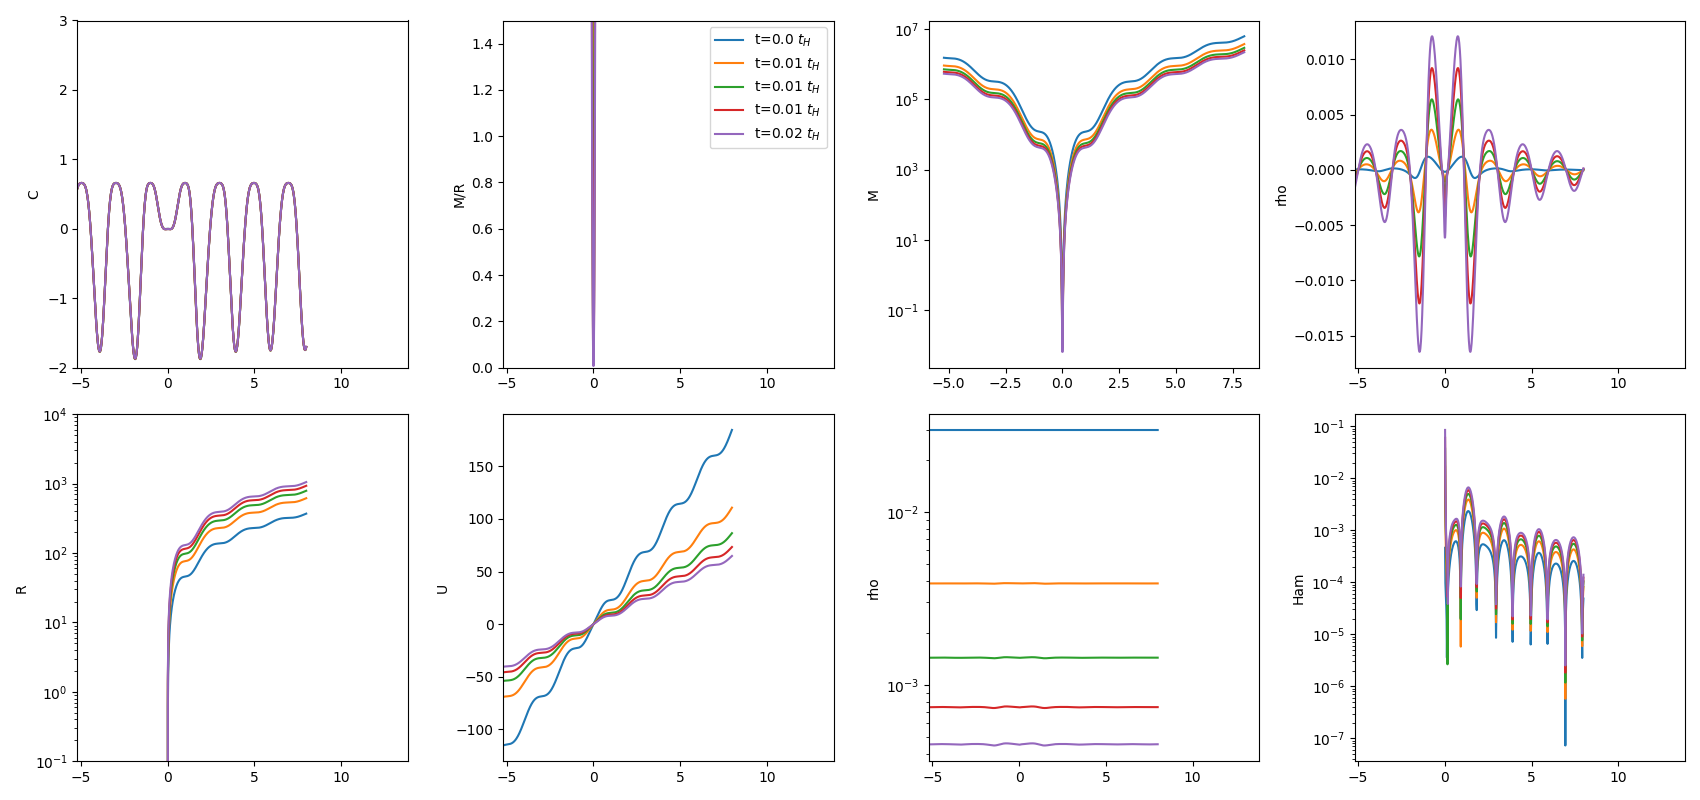
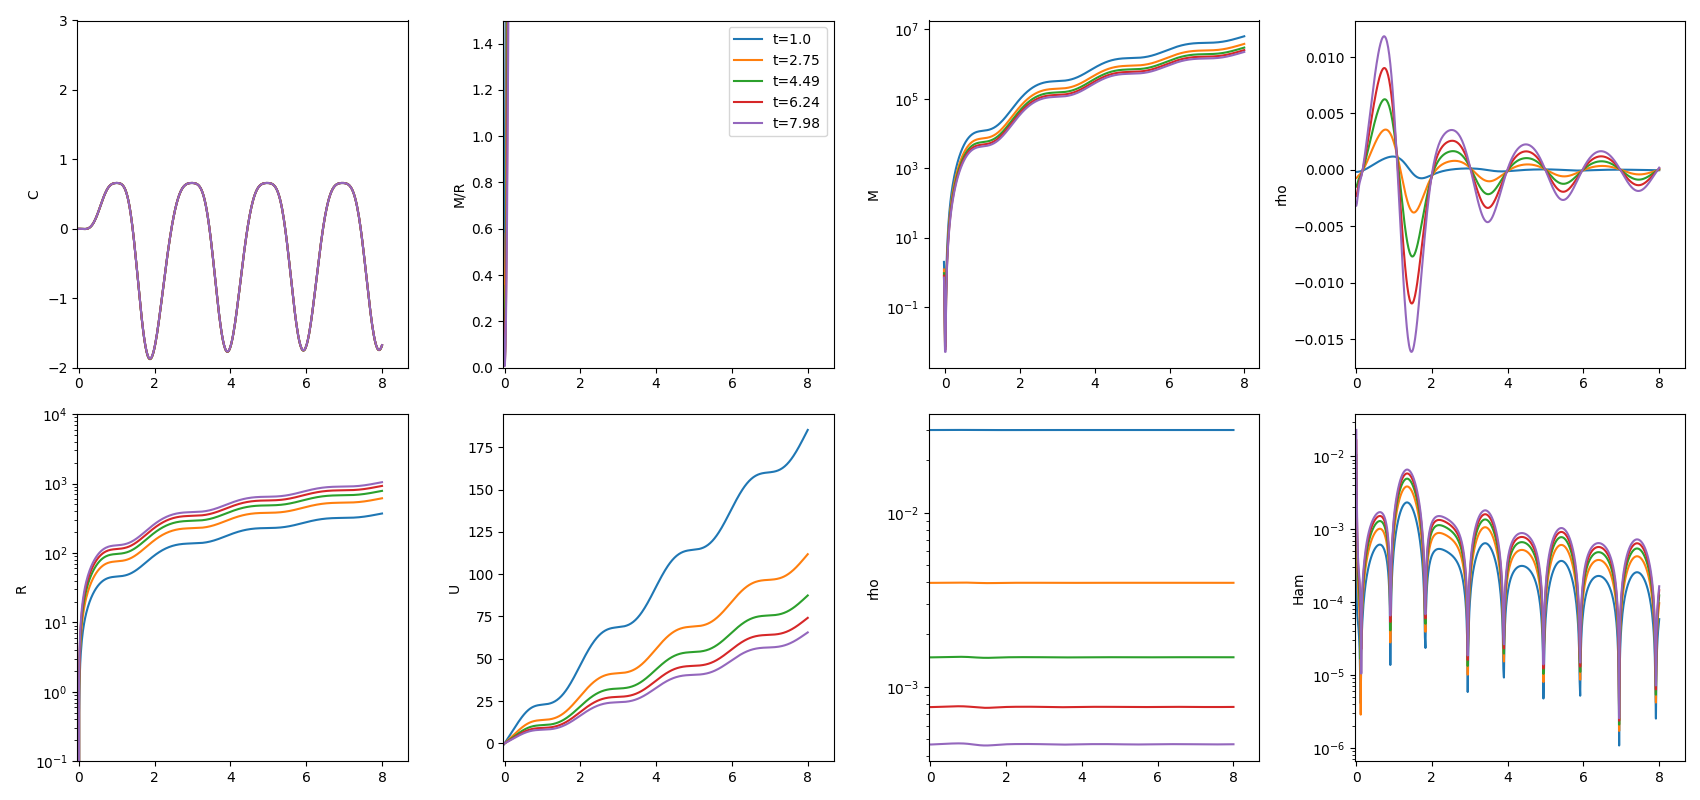
update params

diff --git a/engrenage_MSPBH/source/rhsevolution.py b/engrenage_MSPBH/source/rhsevolution.py
@@ -11,19 +11,14 @@ from source.fourthorderderivatives import *
 from source.logderivatives import *
 from source.tensoralgebra import *
 from source.misnersharp import *
-# from source.mymatter import *
-# from source.bssnrhs import *
 
 from source.initialdata import rho_bkg_ini, t_ini
 from source.initialdata import *  
-# function that returns the rhs for each of the field vars
-# see further details in https://github.com/GRChombo/engrenage/wiki/Useful-code-background
 
 
     
 ################################ Main RHS get function  
-    
-skip_idxs = []
+# skip_idxs = []
 
 def get_rhs(t_i, current_state, R_max, N_r, r_is_logarithmic, sigma, progress_bar, time_state) :     
 
@@ -56,21 +51,7 @@ def get_rhs(t_i, current_state, R_max, N_r, r_is_logarithmic, sigma, progress_ba
     M[-num_ghosts:] = 0
     R[-num_ghosts:] = 0
     
-    
-    
-    # if False:
-        # rho_bkg = get_rho_bkg(t_i/t_ini, rho_bkg_ini)
-        # # rho[-num_ghosts-1:] = rho_bkg
-        # rho[~(rho==rho)] = -1
-        # if np.sum(rho<0) > 0 : 
-            # argindx = np.where(rho<0)[0]
-            # for indx in argindx:
-                # if not indx in skip_idxs: 
-                        # skip_idxs.append(indx)
-                        # print("  WARNING rho become negative, set to min rho.", t_i, indx)                      
-    # argindx = np.where(rho<0)[0]
-    # rho[skip_idxs] = rho_bkg
-        
+           
     # t0 = time.time()
     # print("grid and var setup done in ", t0-start_time)
     
@@ -96,20 +77,6 @@ def get_rhs(t_i, current_state, R_max, N_r, r_is_logarithmic, sigma, progress_ba
 
 
 
-    #dMdr - 4*np.pi*rho*R**2 * dRdr                                                                ############    !!!!
-    if False:
-        # if len(skip_idxs)>0:
-            # rho[skip_idxs] =  np.abs(dMdr / (4*np.pi* R**2 * dRdr))[skip_idxs]
-        rho_bkg = get_rho_bkg(t_i/t_ini, rho_bkg_ini)
-        # rho[-num_ghosts-1:] = rho_bkg
-        mask = rho<rho_bkg/10
-        rho[mask] = np.abs(dMdr / (4*np.pi* R**2 * dRdr))[mask]
-        drhodr     = get_dfdx(rho, oneoverdx)
-
-
-
-
-
     # t2 = time.time()
     # print("derivs found in ", t2 - t1)
         
@@ -127,7 +94,6 @@ def get_rhs(t_i, current_state, R_max, N_r, r_is_logarithmic, sigma, progress_ba
     # note that we do the ghost cells separately below
     for ix in range(num_ghosts, N-num_ghosts) :
         
-        # if ix in skip_idxs: continue                                                         ############################# !!!!
         #t0A = time.time()
         
         # where am I?
@@ -163,20 +129,12 @@ def get_rhs(t_i, current_state, R_max, N_r, r_is_logarithmic, sigma, progress_ba
     ####################################################################################################
 
 
-    # # # B.C. like A. Escriva does ... 
-    # rhs_U[:num_ghosts+1] = 0
-    # rhs_M[:num_ghosts+1] = 0
-    # rhs_R[:num_ghosts+1] = 0
-    
+	# Boundary conditions at the end
     rhs_rho[-num_ghosts:] = 0
-    # rhs_rho[0:num_ghosts+1] = 0
-
 
 
     #package up the rhs values into a vector rhs (like current_state) for return - see uservariables.py
     pack_state(rhs, N_r, rhs_U, rhs_R , rhs_M, rhs_rho)
-
-
 
     #################################################################################################### 
             
@@ -204,11 +162,9 @@ def get_rhs(t_i, current_state, R_max, N_r, r_is_logarithmic, sigma, progress_ba
     # overwrite outer boundaries with extrapolation (order specified in uservariables.py)
     # fill_outer_boundary(current_state, dx, N, r_is_logarithmic)
     # fill_outer_boundary(rhs, dx, N, r_is_logarithmic)
-    
-    # rm = get_rm()
-    # epsilon = 0.01
-    # _rhs_fill_outer_boundary(current_state, dx, N, r_is_logarithmic, t_i, rm, omega, epsilon)
 
+
+	# Boundary Conditions at origin
     # overwrite inner cells using parity under r -> - r
     fill_inner_boundary(current_state, dx, N, r_is_logarithmic)
     fill_inner_boundary(rhs, dx, N, r_is_logarithmic)
@@ -249,208 +205,9 @@ def get_rhs(t_i, current_state, R_max, N_r, r_is_logarithmic, sigma, progress_ba
 
     
 
-def get_rhs_chev(t_i, current_state, R_max, N_r, r_is_logarithmic, sigma, progress_bar, time_state) :      ###CJ!!! remove eta  --> change to params
-
-    # Uncomment for timing and tracking progress
-    # start_time = time.time()
-    
-    # Set up grid values
-    dx, N, r, logarithmic_dr = setup_grid(R_max, N_r, r_is_logarithmic)
-    
-    # predefine some userful quantities
-    oneoverlogdr = 1.0 / logarithmic_dr
-    oneoverlogdr2 = oneoverlogdr * oneoverlogdr
-    oneoverdx  = 1.0 / dx
-    oneoverdxsquared = oneoverdx * oneoverdx
-    
-    # this is where the rhs will go
-    rhs = np.zeros_like(current_state)                                    ###CJ!!!
-    
-    ####################################################################################################
-    #unpackage the state vector for readability - these are the vectors of values across r values at time t_i
-    # see uservariables.py for naming conventions
-    
-    # Unpack variables from current_state - see uservariables.py
-    ### u, v , phi, hrr, htt, hpp, K, arr, att, app, lambdar, shiftr, br, lapse = unpack_state(current_state, N_r) 
-    U, R, M, rho = unpack_state(current_state, N_r) 
-    
-    
-    
-    rho_bkg = get_rho_bkg(t_i/t_ini, rho_bkg_ini)
-    rho[-num_ghosts-1:] = rho_bkg
-    if np.sum(rho<0) >0 : print("  WARNING rho become negative, set to min rho.")
-    rho[rho<0] = rho_bkg
-        
-    # t0 = time.time()
-    # print("grid and var setup done in ", t0-start_time)
-    
-       
-    ####################################################################################################
-
-    # get the various derivs that we need to evolve things
-    if(r_is_logarithmic) : #take logarithmic derivatives
-            
-        # # second derivatives
-        # d2Udx2     = get_logd2fdx2(U, oneoverlogdr2)
-        # d2Rdx2   = get_logd2fdx2(R, oneoverlogdr2)
-        # d2Mdx2   = get_logd2fdx2(M, oneoverlogdr2)
-        # d2rhodx2   = get_logd2fdx2(rho, oneoverlogdr2)
-        
-        # # first derivatives        
-        # dUdr       = get_logdfdx(U, oneoverlogdr)
-        # dRdr       = get_logdfdx(R, oneoverlogdr)
-        # dMdr       = get_logdfdx(M, oneoverlogdr)
-        # drhodr     = get_logdfdx(rho, oneoverlogdr)
-        raise()
-    
-    else :
-        
-        # # second derivatives
-        # d2Udr2     = get_d2fdx2(U, oneoverdxsquared)
-        # d2Mdr2   = get_d2fdx2(M, oneoverdxsquared)
-        # d2Rdr2     = get_d2fdx2(R, oneoverdxsquared)
-        # d2rhodxr2   = get_d2fdx2(rho, oneoverdxsquared)
-
-        # first derivatives
-        dUdr       = get_dfdx(U, oneoverdx)
-        dRdr       = get_dfdx(R, oneoverdx)
-        dMdr       = get_dfdx(M, oneoverdx)
-        drhodr     = get_dfdx(rho, oneoverdx)
-        
-        # B.C. like A. Escriva does ... 
-        drhodr[:num_ghosts+1] = drhodr[num_ghosts+2]
-        drhodr[-num_ghosts-1:] = drhodr[-num_ghosts-2]
-
- 
-
-    # t2 = time.time()
-    # print("derivs found in ", t2 - t1)
-        
-    ####################################################################################################
-    
-    # make containers for rhs values
-    rhs_U   = np.zeros_like(U)
-    rhs_R   = np.zeros_like(R)
-    rhs_M = np.zeros_like(M)
-    rhs_rho = np.zeros_like(rho)
-    
-    ####################################################################################################    
-    
-    # now iterate over the grid (vector) and calculate the rhs values
-    # note that we do the ghost cells separately below
-    for ix in range(num_ghosts, N-num_ghosts) :
-        
-        #t0A = time.time()
-        
-        # where am I?
-        r_here = r[ix]
-                
-                
-        # print("Assign vars done in ", t1A - t0A) 
-        # End of: Calculate some useful quantities, now start RHS
-        #########################################################
-
-        
-        # Get the auxiliary vars        
-        omega = get_omega()        
-        
-        rho_bkg = get_rho_bkg(t_i/t_ini, rho_bkg_ini)
-        
-        if rho[ix] <0 :  rho[ix] = rho_bkg
-        A = get_A(rho[ix], rho_bkg, omega)
-        Gamma = get_Gamma(U[ix], R[ix], M[ix])
-        
-        # Get the Misner-sharp rhs 
-        rhs_U[ix]     =  get_rhs_U(U[ix], M[ix], R[ix], rho[ix], dRdr[ix], drhodr[ix], A, Gamma, omega)
-        
-        rhs_R[ix]     =  get_rhs_R(U[ix], A)
-        
-        rhs_M[ix]     =  get_rhs_M(U[ix], R[ix], rho[ix], A, omega) 
-        
-        rhs_rho[ix]   =  get_rhs_rho(U[ix], R[ix], rho[ix], dUdr[ix], dRdr[ix], A, omega)
-                   
-    # end of rhs iteration over grid points   
-    # t3 = time.time()
-    # print("rhs iteration over grid done in ", t3 - t2)
-    
-    ####################################################################################################
-
-    # B.C. like A. Escriva does ... 
-    rhs_U[:num_ghosts+1] = 0
-    rhs_M[:num_ghosts+1] = 0
-    rhs_R[:num_ghosts+1] = 0
-
-
-
-    #package up the rhs values into a vector rhs (like current_state) for return - see uservariables.py
-    pack_state(rhs, N_r, rhs_U, rhs_R , rhs_M, rhs_rho)
-
-
-
-    #################################################################################################### 
-            
-    # finally add Kreiss Oliger dissipation which removed noise at frequency of grid resolution
-    # sigma = 10.0 # kreiss-oliger damping coefficient, max_step should be limited to 0.1 R_max/N_r    ###CJ change to params.sigma
-    
-    diss = np.zeros_like(current_state) 
-    for ivar in range(0, NUM_VARS) :
-        ivar_values = current_state[(ivar)*N:(ivar+1)*N]
-        ivar_diss = np.zeros_like(ivar_values)
-        if(r_is_logarithmic) :
-            ivar_diss = get_logdissipation(ivar_values, oneoverlogdr, sigma)
-        else : 
-            ivar_diss = get_dissipation(ivar_values, oneoverdx, sigma)
-        diss[(ivar)*N:(ivar+1)*N] = ivar_diss
-    rhs += diss
-    
-    # t4 = time.time()
-    # print("KO diss done in ", t4 - t3)    
-    
-    #################################################################################################### 
-    
-    # see gridfunctions for these, or https://github.com/KAClough/BabyGRChombo/wiki/Useful-code-background
-    
-    # overwrite outer boundaries with extrapolation (order specified in uservariables.py)
-    # fill_outer_boundary(current_state, dx, N, r_is_logarithmic)
-    fill_outer_boundary(rhs, dx, N, r_is_logarithmic)
-    
-    # rm = get_rm()
-    # epsilon = 0.01
-    # _rhs_fill_outer_boundary(current_state, dx, N, r_is_logarithmic, t_i, rm, omega, epsilon)
-
-    # overwrite inner cells using parity under r -> - r
-    fill_inner_boundary(current_state, dx, N, r_is_logarithmic)
-    # fill_inner_boundary(rhs, dx, N, r_is_logarithmic)
-    
-    # t5 = time.time()
-    # print("Fill boundaries done in ", t5 - t4) 
-                
-    #################################################################################################### 
-    
-    # Some code for checking timing and progress output
-    
-    # state is a list containing last updated time t:
-    # state = [last_t, dt for progress bar]
-    # its values can be carried between function calls throughout the ODE integration
-    last_t, deltat = time_state
-    
-    # call update(n) here where n = (t - last_t) / dt
-    n = int((t_i - last_t)/deltat)
-    progress_bar.update(n)
-    # we need this to take into account that n is a rounded number:
-    time_state[0] = last_t + deltat * n
-    
-    # t6 = time.time()
-    # print("Check timing and output ", t6 - t5) 
-    
-    # end_time = time.time()
-    # print("total rhs time at t= ", t_i, " is, ", end_time-start_time)
-        
-    ####################################################################################################
+def get_rhs_chev(t_i, current_state, R_max, N_r, r_is_logarithmic, sigma, progress_bar, time_state) :     
+	
+	# TODO
     
     #Finally return the rhs
     return rhs
-
-
-
-

diff --git a/engrenage_MSPBH/examples/Collapse_evo.py b/engrenage_MSPBH/examples/Collapse_evo.py
@@ -274,9 +274,9 @@ start = time.time()
 # for control of time integrator and spatial grid
 t_ini = 1.0 
 dx = R_max/N_r
-dt_multiplier = 0.001
+dt_multiplier = 0.01
 dt = dx * dt_multiplier
-N_t = 10000
+N_t = 50000
 T  = t_ini + dt * N_t
 # T = 10*n_Horizons
 # T = 2.0 # Maximum evolution time
@@ -301,10 +301,11 @@ print(f" R_max = {R_max}\n N_r = {N_r}\n dx = {dx}\n dt = {dt}\n N_t ={N_t}\n T 
 with tqdm(total=N_t, unit=" ") as progress_bar:
     dense_solution = solve_ivp(get_rhs, [t_ini,T], initial_state, 
                                args=(R_max, N_r, r_is_logarithmic, sigma, progress_bar, [t_ini, dt]),
-                        atol=1e-8, rtol=1e-6,
+                        # atol=1e-8, rtol=1e-6,
+                        atol=1e-80, rtol=1e-60,
                         max_step= dt, #for stability and for KO coeff of 10
-                        # method='RK45',
-                        method='LSODA',
+                        method='RK45',
+                        # method='LSODA',
                         dense_output=True)
 
 # Interpolate the solution at the time points defined in myparams.py
@@ -368,7 +369,7 @@ if True:
 	for i, t_i in enumerate(t) :
 		# if not (i%5 ==0) : continue
 		# if t_i < t_ini : continue
-		labelt = "t="+str(round(t_i/(rm**2/4),2))+r" $t_H$"
+		labelt = "t="+str(round(t_i,2))
 		
 		vars_vec = solution[i,:]
 		U, R, M, rho = unpack_state(vars_vec, N_r)
@@ -497,7 +498,7 @@ if True:
 	for i, t_i in enumerate(t) :
 		# if not (i%5 ==0) : continue
 		# if t_i < t_ini : continue
-		labelt = "t="+str(round(t_i,2))
+		labelt = "t="+str(round(t_i/(rm**2/4),2))+r" $t_H$"
 		
 		vars_vec = solution[i,:]
 		U, R, M, rho = unpack_state(vars_vec, N_r)
